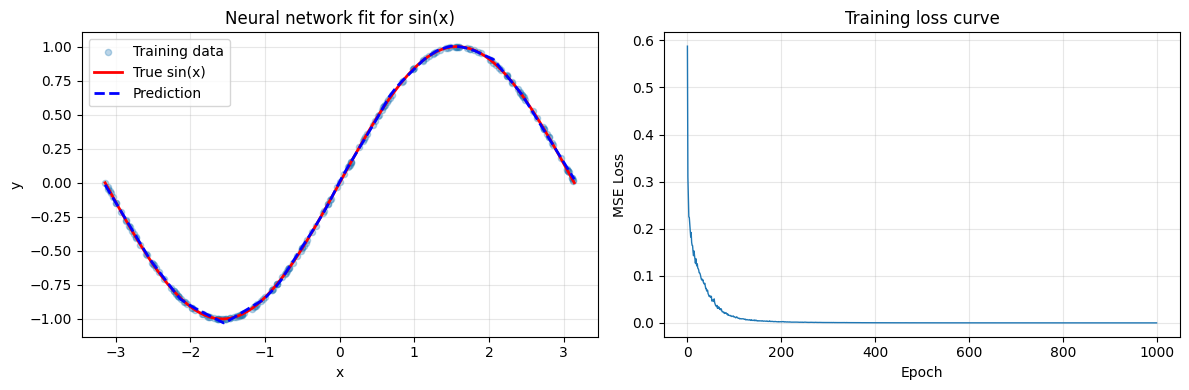
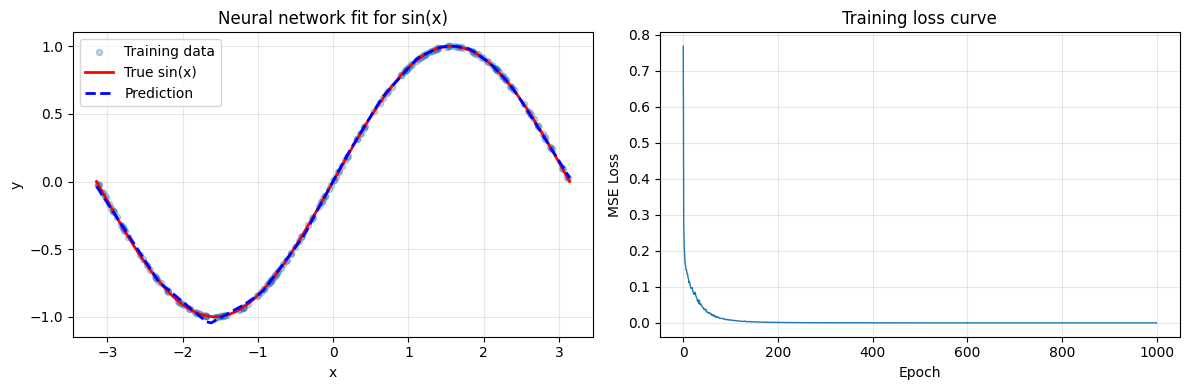
pj1 修正

diff --git a/pj1/p1/part1_2_classifier.py b/pj1/p1/part1_2_classifier.py
@@ -4,7 +4,7 @@ import pickle
 from typing import Dict, List, Tuple
 
 import numpy as np
-from PIL import Image
+from PIL import Image, ImageChops
 
 try:
     import matplotlib.pyplot as plt
@@ -162,6 +162,70 @@ def load_images_from_train_dir(train_dir: str = "train") -> Tuple[np.ndarray, np
     return X, y, label_map
 
 
+def _random_affine_augment(arr2d: np.ndarray) -> np.ndarray:
+    img = Image.fromarray(np.clip(arr2d, 0, 255).astype(np.uint8), mode="L")
+    width, height = img.size
+
+    # 1) Small random rotation.
+    angle = float(np.random.uniform(-10.0, 10.0))
+    img = img.rotate(angle, resample=Image.BILINEAR, fillcolor=0)
+
+    # 2) Small random translation.
+    shift_x = int(round(np.random.uniform(-0.1, 0.1) * width))
+    shift_y = int(round(np.random.uniform(-0.1, 0.1) * height))
+    if shift_x != 0 or shift_y != 0:
+        img = ImageChops.offset(img, shift_x, shift_y)
+        if shift_x > 0:
+            img.paste(0, (0, 0, shift_x, height))
+        elif shift_x < 0:
+            img.paste(0, (width + shift_x, 0, width, height))
+        if shift_y > 0:
+            img.paste(0, (0, 0, width, shift_y))
+        elif shift_y < 0:
+            img.paste(0, (0, height + shift_y, width, height))
+
+    # 3) Mild random scaling.
+    scale = float(np.random.uniform(0.9, 1.1))
+    new_w = max(1, int(round(width * scale)))
+    new_h = max(1, int(round(height * scale)))
+    resized = img.resize((new_w, new_h), resample=Image.BILINEAR)
+    if scale <= 1.0:
+        canvas = Image.new("L", (width, height), color=0)
+        left = (width - new_w) // 2
+        top = (height - new_h) // 2
+        canvas.paste(resized, (left, top))
+        img = canvas
+    else:
+        left = (new_w - width) // 2
+        top = (new_h - height) // 2
+        img = resized.crop((left, top, left + width, top + height))
+
+    return np.array(img, dtype=np.float32)
+
+
+def augment_flattened_images(X: np.ndarray, repeats: int = 1) -> np.ndarray:
+    if repeats <= 0:
+        return X
+
+    side = int(np.sqrt(X.shape[1]))
+    out = [X]
+    x_uint8 = (np.clip(X, 0.0, 1.0) * 255.0).astype(np.float32)
+    for _ in range(repeats):
+        aug = np.empty_like(X, dtype=np.float32)
+        for i in range(X.shape[0]):
+            arr2d = x_uint8[i].reshape(side, side)
+            aug2d = _random_affine_augment(arr2d)
+            aug[i] = (aug2d.reshape(-1) / 255.0).astype(np.float32)
+        out.append(aug)
+    return np.concatenate(out, axis=0)
+
+
+def augment_labels(y: np.ndarray, repeats: int = 1) -> np.ndarray:
+    if repeats <= 0:
+        return y
+    return np.concatenate([y] + [y.copy() for _ in range(repeats)], axis=0)
+
+
 def stratified_split(
     X: np.ndarray,
     y: np.ndarray,
@@ -186,10 +250,29 @@ def stratified_split(
     return X[train_idx], y[train_idx], X[val_idx], y[val_idx]
 
 
-def evaluate(model: NeuralNetwork, X: np.ndarray, y: np.ndarray, num_classes: int) -> Tuple[float, float]:
-    pred = model.predict(X)
+def predict_proba_tta(model: NeuralNetwork, X: np.ndarray, tta_times: int = 1) -> np.ndarray:
+    tta_times = max(1, int(tta_times))
+    probs_sum = None
+    for t in range(tta_times):
+        if t == 0:
+            x_in = X
+        else:
+            x_in = augment_flattened_images(X, repeats=1)[X.shape[0]:]
+        probs = model.predict_proba(x_in)
+        probs_sum = probs if probs_sum is None else (probs_sum + probs)
+    return probs_sum / tta_times
+
+
+def evaluate(
+    model: NeuralNetwork,
+    X: np.ndarray,
+    y: np.ndarray,
+    num_classes: int,
+    tta_times: int = 1,
+) -> Tuple[float, float]:
+    prob = predict_proba_tta(model, X, tta_times=tta_times)
+    pred = np.argmax(prob, axis=1)
     acc = float(np.mean(pred == y))
-    prob = model.predict_proba(X)
     y_one_hot = one_hot_encode(y, num_classes)
     loss = float(-np.sum(y_one_hot * np.log(prob + 1e-8)) / X.shape[0])
     return acc, loss
@@ -205,6 +288,16 @@ def main():
     val_ratio=0.2
     seed=42
     X_train, y_train, X_val, y_val = stratified_split(X_all, y_all, val_ratio, seed)
+
+    use_train_augmentation = True
+    train_aug_repeats = 1
+    if use_train_augmentation:
+        X_train = augment_flattened_images(X_train, repeats=train_aug_repeats)
+        y_train = augment_labels(y_train, repeats=train_aug_repeats)
+
+    use_tta_val = True
+    tta_times = 5
+
     y_train_one_hot = one_hot_encode(y_train, num_classes)
     print(f"Train/Val split: {X_train.shape[0]} / {X_val.shape[0]}")
 
@@ -212,18 +305,20 @@ def main():
     learning_rate=0.01
     dropout_rate=0.3
     model = NeuralNetwork(layer_sizes, learning_rate, dropout_rate)
-    epochs=100
+    epochs=130
     batch_size=64
     losses = model.train(X_train, y_train_one_hot, epochs, batch_size, verbose=True)
 
-    train_acc, train_loss = evaluate(model, X_train, y_train, num_classes)
-    val_acc, val_loss = evaluate(model, X_val, y_val, num_classes)
+    train_acc, train_loss = evaluate(model, X_train, y_train, num_classes, tta_times=1)
+    val_acc, val_loss = evaluate(model, X_val, y_val, num_classes, tta_times=tta_times if use_tta_val else 1)
 
     print("\nMetrics")
     print(f"Train Acc: {train_acc:.4f}, Train Loss: {train_loss:.6f}")
-    print(f"Val   Acc: {val_acc:.4f}, Val   Loss: {val_loss:.6f}")
+    tta_tag = f" (TTAx{tta_times})" if use_tta_val else ""
+    print(f"Val   Acc: {val_acc:.4f}, Val   Loss: {val_loss:.6f}{tta_tag}")
 
-    val_pred = model.predict(X_val)
+    val_prob = predict_proba_tta(model, X_val, tta_times=tta_times if use_tta_val else 1)
+    val_pred = np.argmax(val_prob, axis=1)
     print("\nPer-class validation accuracy")
     for c in range(num_classes):
         mask = y_val == c

diff --git a/pj1/p1/part1_2_test.py b/pj1/p1/part1_2_test.py
@@ -1,0 +1,91 @@
+import glob
+import os
+import pickle
+from typing import Dict, List, Tuple
+
+import numpy as np
+from PIL import Image
+
+from part1_2_classifier import NeuralNetwork, evaluate
+
+
+class LabeledNumpyDataset:
+    def __init__(self, test_dir: str, label_map: Dict[int, str]):
+        if not os.path.isdir(test_dir):
+            raise FileNotFoundError(f"测试目录不存在: {test_dir}")
+
+        self.label_map = label_map
+        self.name_to_idx = {name: idx for idx, name in label_map.items()}
+
+        self.paths: List[str] = []
+        self.labels: List[int] = []
+
+        for class_name, class_idx in self.name_to_idx.items():
+            class_dir = os.path.join(test_dir, class_name)
+            if not os.path.isdir(class_dir):
+                continue
+
+            bmp_files = sorted(glob.glob(os.path.join(class_dir, "*.bmp")))
+            self.paths.extend(bmp_files)
+            self.labels.extend([class_idx] * len(bmp_files))
+
+        if not self.paths:
+            raise ValueError(
+                "未读取到任何带标签样本。请确认测试集结构为 test_dir/类别名/*.bmp，且类别名与训练时一致。"
+            )
+
+    def to_numpy(self) -> Tuple[np.ndarray, np.ndarray, List[str]]:
+        images = []
+        for p in self.paths:
+            arr = np.array(Image.open(p).convert("L"), dtype=np.float32)
+            images.append(arr.reshape(-1) / 255.0)
+
+        X = np.stack(images).astype(np.float32)
+        y = np.array(self.labels, dtype=np.int64)
+        return X, y, self.paths
+
+
+def load_model(model_path: str) -> Tuple[NeuralNetwork, Dict[int, str], int]:
+    with open(model_path, "rb") as f:
+        ckpt = pickle.load(f)
+
+    model = NeuralNetwork(
+        layer_sizes=ckpt["layer_sizes"],
+        learning_rate=ckpt["learning_rate"],
+        dropout_rate=ckpt["dropout_rate"],
+    )
+    model.weights = ckpt["weights"]
+    model.biases = ckpt["biases"]
+
+    label_map = ckpt["label_map"]
+    num_classes = len(label_map)
+    return model, label_map, num_classes
+
+
+def main():
+    # 直接在这里修改测试配置
+    model_path = "part1_2_model.pkl"
+    test_dir = "../test"
+
+    model, label_map, num_classes = load_model(model_path)
+    print(f"Model: {model_path}")
+    print(f"Test : {test_dir}")
+
+    dataset = LabeledNumpyDataset(test_dir, label_map)
+    X_test, y_test, _ = dataset.to_numpy()
+
+    test_acc, test_loss = evaluate(model, X_test, y_test, num_classes)
+    print(f"Test Acc : {test_acc:.4f}")
+    print(f"Test Loss: {test_loss:.6f}")
+
+    y_pred = model.predict(X_test)
+    print("Per-class accuracy:")
+    for c in range(num_classes):
+        mask = y_test == c
+        if np.any(mask):
+            cls_acc = float(np.mean(y_pred[mask] == y_test[mask]))
+            print(f"  Class {label_map[c]:>2s}: {cls_acc:.4f} ({int(mask.sum())} samples)")
+
+
+if __name__ == "__main__":
+    main()